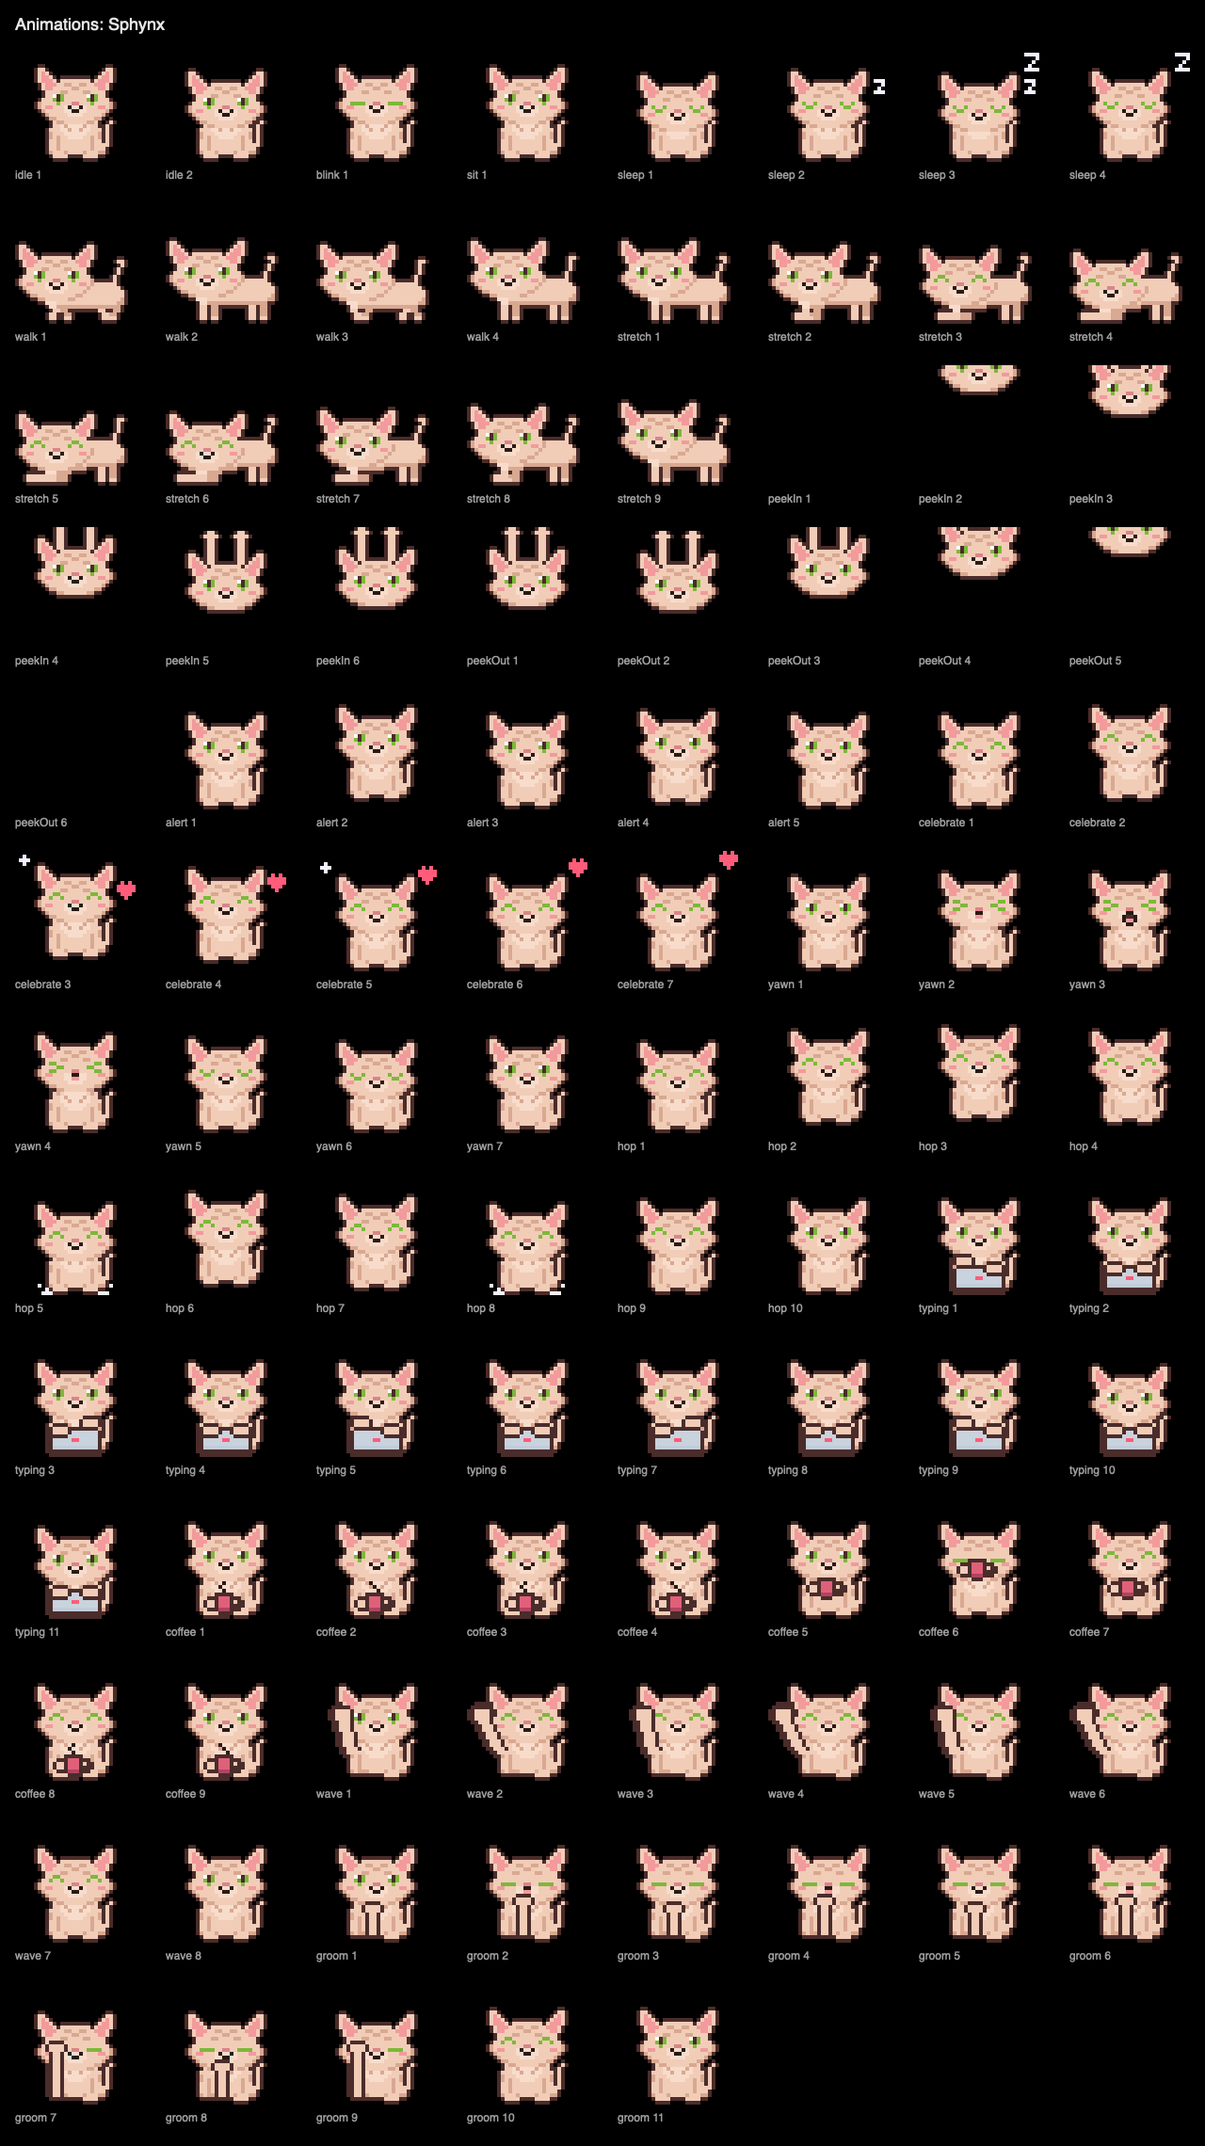
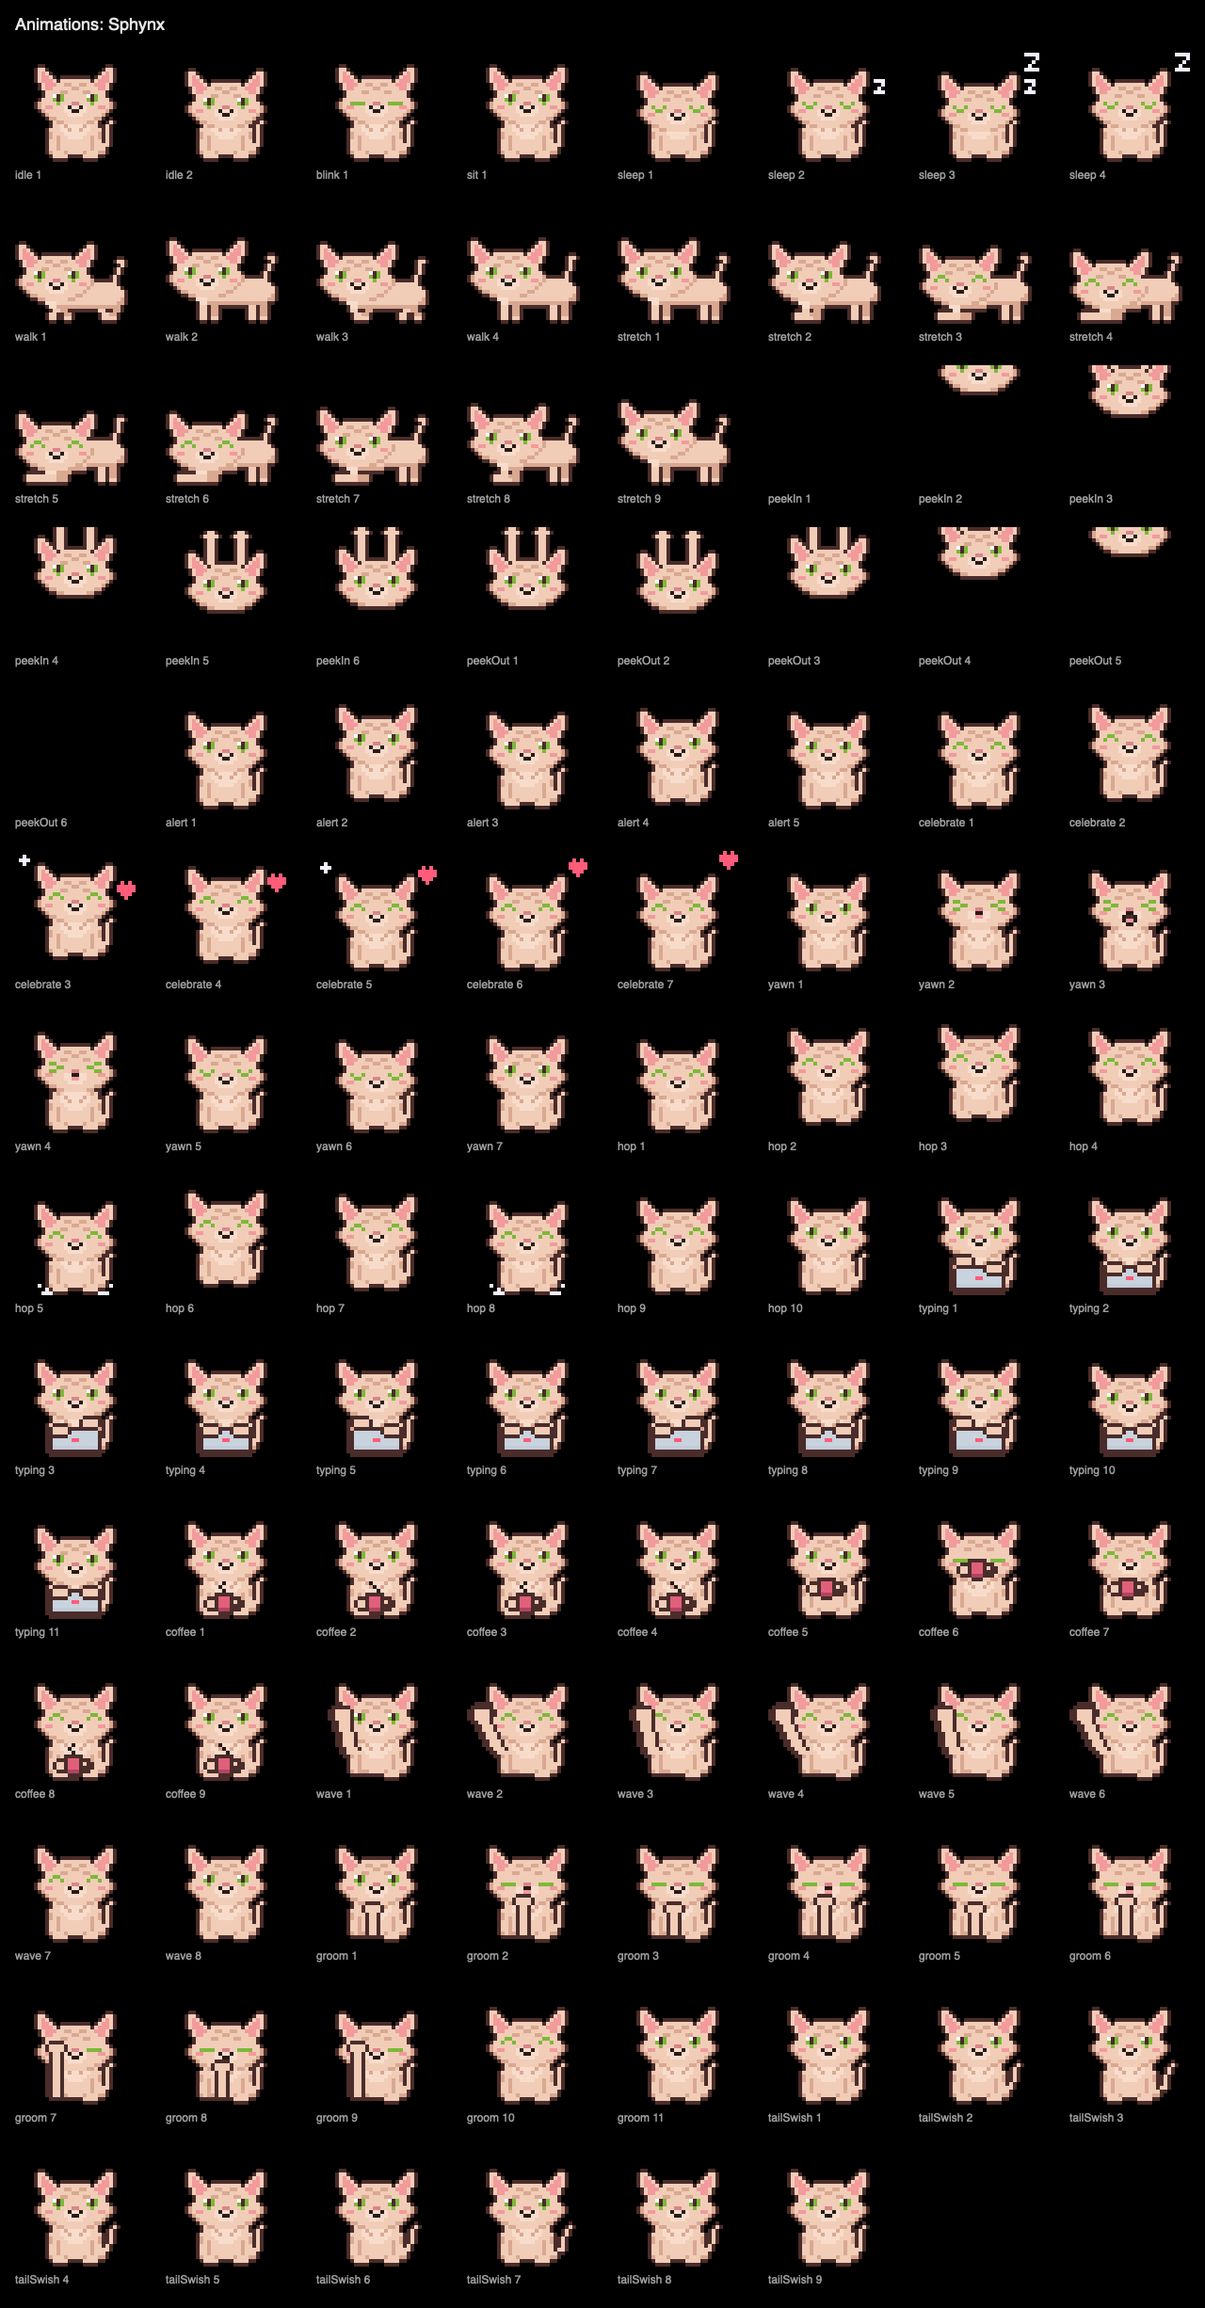
feat(pets): Added the tail swish animation for every cat and dog breed: the pet's own tail is bent out from its base and back twice (about 2.1 s), and the stub-tailed corgi and French bulldog wiggle a small stub out past the haunch instead. Includes tests, a gallery sheet, docs, and refreshed curate

diff --git a/Sources/TabbiKitCore/Pets/PetComposer.swift b/Sources/TabbiKitCore/Pets/PetComposer.swift
@@ -63,10 +63,23 @@ public enum PetComposer {
         switch stance {
         case .sitting:
             // A gesturing pet lifts its left front paw off the floor.
-            let body = pose.gesture == nil ? layout.body : PawArt.liftingLeftPaw(layout.body)
+            var body = pose.gesture == nil ? layout.body : PawArt.liftingLeftPaw(layout.body)
+            let swing = max(pose.tailSwing, 0)
+            if swing > 0, let column = layout.tailColumn {
+                // A tail drawn into the body is cut out and bent on its own.
+                let (rest, tail) = TailArt.split(body, at: column)
+                body = rest
+                let room = frameSize - 1 - layout.bodyX
+                canvas.stamp(TailArt.swung(tail, by: swing, room: room), x: layout.bodyX, y: layout.bodyY, pattern: pattern)
+            }
             canvas.stamp(body, x: layout.bodyX, y: layout.bodyY, pattern: pattern)
             if breed.hasTail, let tail = layout.tail {
-                canvas.stamp(tail.grid, x: tail.x, y: tail.y, pattern: pattern)
+                let room = frameSize - 1 - tail.x
+                canvas.stamp(TailArt.swung(tail.grid, by: swing, room: room), x: tail.x, y: tail.y, pattern: pattern)
+            } else if !breed.hasTail, swing > 0 {
+                // No tail to swish: a stub pops out past the haunch and bobs.
+                let haunch = layout.bodyX + layout.body.width - 1
+                canvas.stamp(TailArt.nub, x: haunch, y: layout.bodyY + 7 - swing, pattern: pattern)
             }
         case .hanging:
             // A hanging pet's chin always rests on the same row, whatever the head.
@@ -321,6 +334,9 @@ public enum PetComposer {
         let bodyX: Int
         let bodyY: Int
         let tail: (grid: SpriteGrid, x: Int, y: Int)?
+        /// First body column of a tail drawn into the sitting body, so the
+        /// tail swish can bend it on its own.
+        let tailColumn: Int?
         let head: SpriteGrid
         let headX: Int
         let headY: Int
@@ -337,7 +353,7 @@ public enum PetComposer {
             switch shape {
             case .cat, .roundCat, .sphynxCat:
                 family = .cat
-                (bodyX, bodyY, tail) = (6, 20, nil)
+                (bodyX, bodyY, tail, tailColumn) = (6, 20, nil, 17)
                 (body, head, face) = switch shape {
                 case .roundCat: (CatArt.bodyRound, CatArt.headRound, CatArt.faceRound)
                 case .sphynxCat: (CatArt.bodySphynx, CatArt.headSphynx, CatArt.faceSphynx)
@@ -346,11 +362,12 @@ public enum PetComposer {
                 (headX, headY, faceRow, eyeRow, skullTop) = (6, 7, 0, 7, 3)
             case .longDog:
                 family = .longDog
-                (body, bodyX, bodyY, tail) = (DogArt.bodyLong, 6, 21, nil)
+                (body, bodyX, bodyY, tail, tailColumn) = (DogArt.bodyLong, 6, 21, nil, 23)
                 (head, headX, headY, face) = (DogArt.headLong, 2, 8, DogArt.faceLongSnout)
                 (faceRow, eyeRow, skullTop) = (4, 4, 1)
             case .floppyDog, .fluffyDog, .batEaredDog, .pointyEaredDog, .poodleDog, .shihTzuDog:
                 family = .dog
+                tailColumn = nil
                 (body, bodyX, bodyY) = switch shape {
                 case .poodleDog: (DogArt.bodyPoodle, 6, 20)
                 case .shihTzuDog: (DogArt.bodyShihTzu, 6, 20)

diff --git a/Sources/TabbiKitCore/Pets/PetAnimation.swift b/Sources/TabbiKitCore/Pets/PetAnimation.swift
@@ -59,6 +59,9 @@ public struct PetPose: Hashable, Sendable {
     public var mouth: Mouth
     public var prop: Prop?
     public var gesture: Gesture?
+    /// Pixels the tip of a sitting pet's tail leans out to the side (0 at
+    /// rest), for the tail swish. Tailless breeds wiggle a stub instead.
+    public var tailSwing: Int
     /// Pixels the head sinks into the shoulders (breathing, dozing);
     /// negative tips it back (a yawn).
     public var headDrop: Int
@@ -67,12 +70,13 @@ public struct PetPose: Hashable, Sendable {
 
     public init(
         eyes: Eyes = .open, mouth: Mouth = .closed, prop: Prop? = nil, gesture: Gesture? = nil,
-        headDrop: Int = 0, lift: Int = 0
+        tailSwing: Int = 0, headDrop: Int = 0, lift: Int = 0
     ) {
         self.eyes = eyes
         self.mouth = mouth
         self.prop = prop
         self.gesture = gesture
+        self.tailSwing = tailSwing
         self.headDrop = headDrop
         self.lift = lift
     }
@@ -121,12 +125,15 @@ public enum PetAnimation: String, CaseIterable, Codable, Sendable {
     /// Grooming: a few licks of a raised paw, then a wipe over the cheek,
     /// eyes closed in concentration.
     case groom
+    /// A lazy tail swish while sitting: the tail sweeps out to the side and
+    /// back twice. Tailless breeds wiggle a stub by the haunch.
+    case tailSwish
 
     /// Whether the clip repeats forever or stops on its last frame.
     public var loops: Bool {
         switch self {
         case .idle, .sit, .sleep, .walk, .typing, .coffee: true
-        case .blink, .stretch, .peekIn, .peekOut, .alert, .celebrate, .yawn, .hop, .wave, .groom: false
+        case .blink, .stretch, .peekIn, .peekOut, .alert, .celebrate, .yawn, .hop, .wave, .groom, .tailSwish: false
         }
     }
 }
@@ -402,6 +409,15 @@ extension PetComposer {
                 (PetPose(), 0.2),
             ]
             frames = steps.map { frame($0.0, $0.1) }
+
+        case .tailSwish:
+            // Two lazy sweeps out and back, the first slower, holding at the
+            // far end the way a content cat's tail hangs before it returns.
+            let steps: [(Int, TimeInterval)] = [
+                (0, 0.2), (1, 0.14), (2, 0.4), (1, 0.14), (0, 0.3),
+                (1, 0.12), (2, 0.3), (1, 0.12), (0, 0.35),
+            ]
+            frames = steps.map { frame(PetPose(tailSwing: $0.0), $0.1) }
 
         case .peekIn, .peekOut:
             // Dangling from the notch by the front paws: the head lowers into

diff --git a/Sources/TabbiKitCore/Pets/Art/TailArt.swift b/Sources/TabbiKitCore/Pets/Art/TailArt.swift
@@ -1,0 +1,48 @@
+import Foundation
+
+/// The sitting tail bending out to the side for the tail swish. Every breed
+/// keeps its own tail art (a whip, a ringed tail, a pom, a plume): the tail
+/// is bent from its base, so no breed needs swish frames of its own.
+enum TailArt {
+    /// `body` cut in two at `column`: the body without the tail, and the tail
+    /// alone on a grid of the same size, for tails drawn into the sitting
+    /// body (cats, the dachshund).
+    static func split(_ body: SpriteGrid, at column: Int) -> (body: SpriteGrid, tail: SpriteGrid) {
+        var rest = body
+        var tail = SpriteGrid(width: body.width, height: body.height)
+        for y in 0..<body.height {
+            for x in column..<body.width {
+                tail[x, y] = body[x, y]
+                rest[x, y] = .empty
+            }
+        }
+        return (rest, tail)
+    }
+
+    /// `tail` bent `swing` pixels out to the right at its tip. The base row
+    /// stays put and each row above leans a little further, never more than
+    /// a pixel past the row below, so the tail stays one connected stroke.
+    /// The grid grows by `swing` columns to make room. The swing is cut down
+    /// so the tail stays within `room` columns of the grid's left edge (the
+    /// dachshund's tail already sits near the edge of the frame).
+    static func swung(_ tail: SpriteGrid, by swing: Int, room: Int) -> SpriteGrid {
+        let rows = (0..<tail.height).filter { y in (0..<tail.width).contains { tail[$0, y] != .empty } }
+        let right = (0..<tail.width).last { x in (0..<tail.height).contains { tail[x, $0] != .empty } } ?? 0
+        let swing = min(swing, room - 1 - right)
+        guard swing > 0, let top = rows.first, let base = rows.last, base > top else { return tail }
+        var bent = SpriteGrid(width: tail.width + swing, height: tail.height)
+        for y in 0..<tail.height {
+            let lean = Double(swing * (base - y)) / Double(base - top)
+            let shift = min(max(Int(lean.rounded()), 0), base - y)
+            for x in 0..<tail.width where tail[x, y] != .empty { bent[x + shift, y] = tail[x, y] }
+        }
+        return bent
+    }
+
+    /// A stub tail peeking out by the haunch for breeds without a tail (a
+    /// corgi, a French bulldog), which wiggle it instead of swishing.
+    static let nub = SpriteGrid(art: """
+        tt
+        BB
+        """)
+}

diff --git a/Tests/TabbiKitCoreTests/PetsAnimationTests.swift b/Tests/TabbiKitCoreTests/PetsAnimationTests.swift
@@ -367,6 +367,34 @@ final class PetAnimationTests: XCTestCase {
         }
     }
 
+    func testTailSwishSweepsTheTailOutTwiceAndLeavesTheRestOfThePetStill() throws {
+        for breed in PetBreed.allCases {
+            let clip = PetComposer.clip(.tailSwish, for: breed, accessories: [.scarf])
+            XCTAssertFalse(clip.loops)
+            let sitting = PetComposer.sitting(breed, accessories: [.scarf])
+            XCTAssertEqual(clip.frames.first?.canvas, sitting, "starts sitting: \(breed)")
+            XCTAssertEqual(clip.frames.last?.canvas, sitting, "settles back: \(breed)")
+            let out = PetComposer.sitting(breed, pose: PetPose(tailSwing: 2), accessories: [.scarf])
+            let restRight = try XCTUnwrap(sitting.opaqueBounds).maxX
+            XCTAssertGreaterThan(try XCTUnwrap(out.opaqueBounds).maxX, restRight, "the tail reaches out: \(breed)")
+            // Two sweeps: runs of frames with the tail out, with a return to
+            // sitting between them.
+            let canvases = clip.frames.map(\.canvas)
+            let sweeps = zip(canvases, canvases.dropFirst()).filter { $0 == sitting && $1 != sitting }.count
+            XCTAssertEqual(sweeps, 2, "\(breed)")
+            XCTAssertTrue(canvases.contains(out), "\(breed)")
+            for canvas in canvases {
+                // Only the tail moves: the head, face, paws and scarf hold still.
+                for y in 0...baseline {
+                    for x in 0..<16 { XCTAssertEqual(canvas[x, y], sitting[x, y], "\(breed) at \(x),\(y)") }
+                }
+                XCTAssertEqual(try XCTUnwrap(canvas.opaqueBounds).maxY, baseline, "\(breed)")
+                let edge = (0...baseline).map { canvas[baseline, $0] }
+                XCTAssertTrue(edge.allSatisfy { $0 == nil || $0 == .outline }, "nothing clipped: \(breed)")
+            }
+        }
+    }
+
     func testCanvasShiftAndFlip() {
         var canvas = PetCanvas(width: 3, height: 3)
         canvas[0, 0] = .eye

diff --git a/Sources/PetGallery/main.swift b/Sources/PetGallery/main.swift
@@ -174,7 +174,7 @@ try writeSheet(stretchCells, columns: 9, title: "Stretch (play bow)",
 
 // Animation checks: every breed through every frame of the newer moves,
 // one row per breed, so each move is reviewed across all head shapes.
-for animation in [PetAnimation.yawn, .hop, .typing, .coffee, .wave, .groom] {
+for animation in [PetAnimation.yawn, .hop, .typing, .coffee, .wave, .groom, .tailSwish] {
     var cells: [Cell] = []
     var columns = 1
     for breed in PetBreed.allCases {

diff --git a/docs/study/pets.md b/docs/study/pets.md
@@ -3,7 +3,7 @@
 A study-buddy cat or dog lives in the notch.
 This document explains how pet sprites are drawn, composed, and rendered, and how to add a breed.
 
-Status: the sprite format, palettes, pattern zones, renderer, all nine cat breeds, all eight dog breeds, every costume, the front-facing animations (idle, blink, sit, sleep, peek in and out, alert, celebrate, yawn, hop, typing, coffee, wave, groom), the walk cycle, the stretch, the animation state machine, and the app's `PetView` exist.
+Status: the sprite format, palettes, pattern zones, renderer, all nine cat breeds, all eight dog breeds, every costume, the front-facing animations (idle, blink, sit, sleep, peek in and out, alert, celebrate, yawn, hop, typing, coffee, wave, groom, tail swish), the walk cycle, the stretch, the animation state machine, and the app's `PetView` exist.
 
 ![All cat breeds sitting, on black at 4x](images/cats-sitting.png)
 
@@ -164,7 +164,7 @@ Accessories are drawn after the face and before the automatic outline, so hats g
 ## Animations
 
 `PetComposer.clip(_:for:outfit:accessories:)` builds a `PetClip`: a list of `PetFrame`s, each with its own `duration` in seconds.
-`clip.frame(at: elapsed)` picks the frame to show; looping clips (idle, sit, sleep, walk, typing, coffee) wrap around, one-shot clips (blink, stretch, peek, alert, celebrate, yawn, hop, wave, groom) hold their last frame until `PetAnimator.advance(to:)` sees the clip's duration has passed and moves the pet on.
+`clip.frame(at: elapsed)` picks the frame to show; looping clips (idle, sit, sleep, walk, typing, coffee) wrap around, one-shot clips (blink, stretch, peek, alert, celebrate, yawn, hop, wave, groom, tailSwish) hold their last frame until `PetAnimator.advance(to:)` sees the clip's duration has passed and moves the pet on.
 
 Front-facing animations are not drawn frame by frame.
 Each frame is the sitting composition in a `PetPose`, so every breed and costume animates without extra art:
@@ -176,6 +176,7 @@ Each frame is the sitting composition in a `PetPose`, so every breed and costume
 | `headDrop` | Sinks the head (and its hat and glasses) into the shoulders, for breathing and dozing; -1 tips it back for a yawn |
 | `prop` | Something held in front of the pet: `.laptop(tap:)` (a paw lifted to type, -1 left, 1 right, 0 resting) or `.mug(raise:)` (0 in the lap, 1 on the way up, 2 at the mouth) |
 | `gesture` | The left front paw lifted off the floor: `.wave(swing:)` (0 leans out from the head, 1 swings back in beside the cheek) or `.groom(reach:)` (0 just under the chin, 1 under the tongue for a lick, 2 up over the left cheek to wash) |
+| `tailSwing` | Pixels the tip of the tail leans out to the side, 0 at rest; tailless breeds pop out a stub by the haunch instead, raised `tailSwing` px |
 | `lift` | Raises the whole pet off the baseline, for hops |
 
 Eye states live in `EffectArt` as 4x3 grids centered on the 2x3 open eye.
@@ -192,6 +193,12 @@ Gestures come from `PawArt`: a forearm in plain fur ending in a paw-zone paw, ou
 A gesturing pet lifts its left front paw off the floor (`PawArt.liftingLeftPaw`): the paw shape touching the floor furthest left is found from the body art, its floor run is cleared (a Poodle's cuff with it), paw pixels tucked against fur turn into a fold of shaded fur, and a leg standing free (the dachshund's) goes entirely.
 The waving arm grows from the left shoulder (3 px in and 4 px down the body) and holds the paw beside the head, clear of the eyes.
 The grooming leg rises straight from just above the floor to the mouth, found like an open mouth, so it lines up on every head.
+
+A swinging tail is bent from its base by `TailArt`, so every breed keeps its own tail (the Sphynx's whip, the British Shorthair's rings, the Poodle's pom, the Shih Tzu's plume).
+Dogs draw the tail as its own grid; cats and the dachshund draw it into the sitting body, so the composer cuts it out at the body's tail column first (`SitLayout.tailColumn`: 17 for cats, 23 for the dachshund).
+The base row stays put and each row above leans a little further, never more than a pixel past the row below, so the tail stays one connected stroke.
+The swing is cut down to the room left in the frame, which keeps the dachshund's tail, near the right edge, to a 1 px flick.
+The corgi and French bulldog have no tail, so `TailArt.nub` pops out past the haunch and bobs instead.
 
 Open mouths are found from the art too: `EffectArt.mouth(_:in:)` centers a 4-wide mouth on the nose's top row, on the first row below the nose, so it covers any face's own mouth lines or tongue.
 Its corners are the muzzle zone, which hides what was drawn there.
@@ -212,6 +219,7 @@ When the row under the nose carries nose-colored mouth corners (most dogs), a ro
 | coffee | A mug in the lap with steam curling (four 450 ms frames), raised to the mouth for a 900 ms sip with closed eyes, lowered with a happy "ahh"; about 3.9 s, loops for breaks |
 | wave | The left paw goes up beside the head and swings out and back three times with happy eyes (220 ms out, 180 ms in), then comes down; about 1.7 s |
 | groom | The left leg lifts to the chin, three licks (the paw rises under an open mouth for 180 ms, drops for 120 ms) with the eyes shut, two strokes over the left cheek with the head bent into them, then a contented look; about 2.3 s |
+| tailSwish | The tail sweeps out to the side and back twice, the first sweep slower (400 ms held at the far end) and the second quicker, everything else still; about 2.1 s |
 | walk | Four 150 ms steps of a trot, side-on (see below) |
 | stretch | A side-on play bow: down in three steps, a held bow with happy eyes and a tail wag, then back up (see below) |
 
@@ -220,7 +228,7 @@ The peek legs come from `EffectArt.hangingLeg`, drawn behind the head with the b
 
 ![Every animation frame for the orange tabby](images/animations-cat.png)
 
-`PetGallery` also writes `yawn.png`, `hop.png`, `typing.png`, `coffee.png`, `wave.png` and `groom.png`, every breed through every frame of each move, one row per breed:
+`PetGallery` also writes `yawn.png`, `hop.png`, `typing.png`, `coffee.png`, `wave.png`, `groom.png` and `tailSwish.png`, every breed through every frame of each move, one row per breed:
 
 ![The yawn for every breed](images/yawn.png)
 
@@ -233,6 +241,8 @@ The peek legs come from `EffectArt.hangingLeg`, drawn behind the head with the b
 ![Waving for every breed](images/wave.png)
 
 ![Grooming for every breed](images/groom.png)
+
+![The tail swish for every breed](images/tailSwish.png)
 
 ### Walking
 
